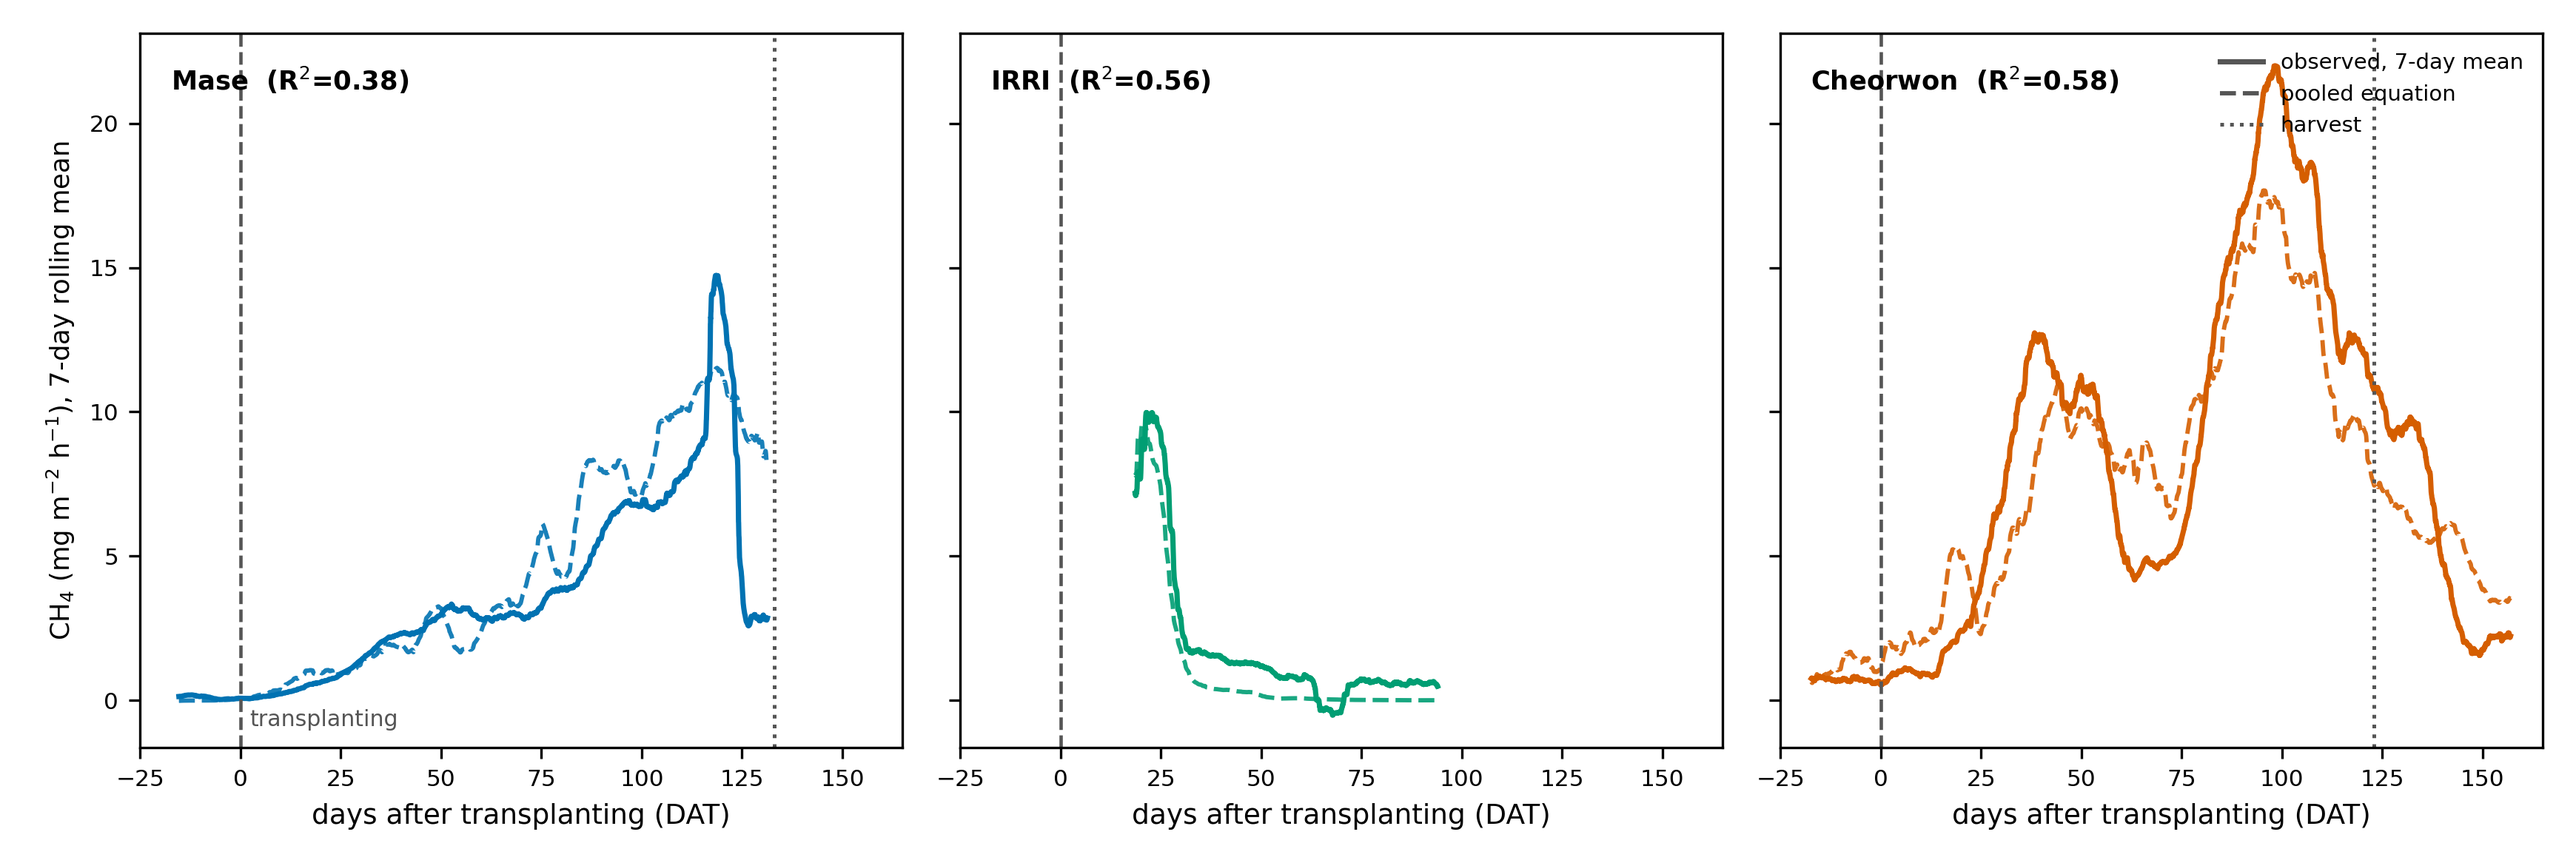
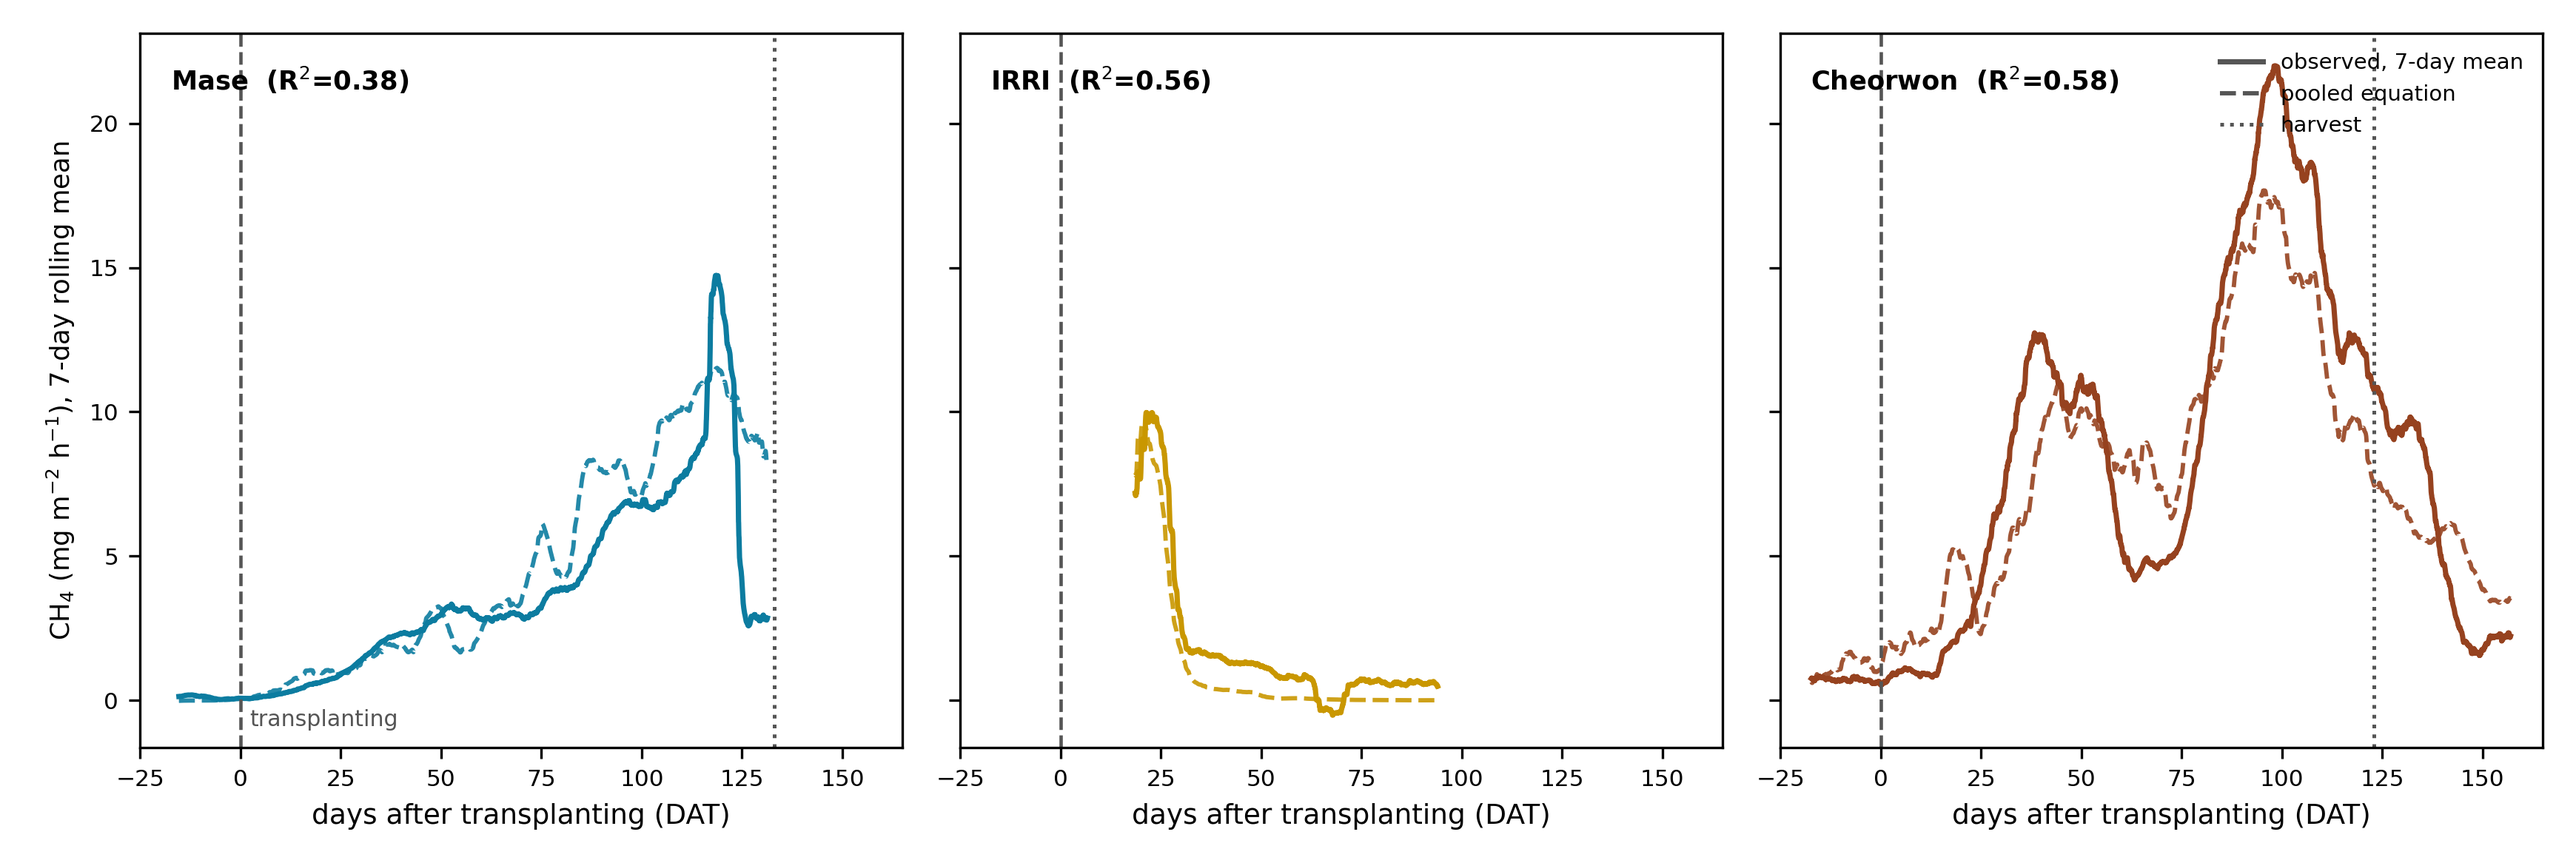
Figures: earth/WUR palette (script v1.7), regenerated from cleaned inputs

diff --git a/code/out_11_figures.py b/code/out_11_figures.py
@@ -1,6 +1,13 @@
 """
-11_figures.py (v1.1) -- the three data-dependent figures for Paper 1
+11_figures.py (v1.7) -- the three data-dependent figures for Paper 1
 ==============================================================================
+v1.7 (12 Aug 2026): earth/WUR palette replaces Okabe-Ito, validated for
+    protan/deutan/tritan separation (OKLab, all pairs, white surface).
+    KOR path is the Papale/Hampel-cleaned CSV. Regenerate ALL figures so the
+    Cheorwon panels stop showing the uncleaned record: the old Figure 4
+    annotated n=8,365 where the cleaned analysis set has 8,364 complete
+    cases (tab:sites footnote b).
+
 Regenerates, from the August 2026 runs and at the equations' PUBLISHED
 coefficients (no refitting):
 
@@ -51,9 +58,16 @@ BASE = r"C:\Users\zerru001\OneDrive - Wageningen University & Research\Paper1\RU
 PYSR_ROOT = r"C:\Users\zerru001\OneDrive - Wageningen University & Research\Paper1\RUN2\PYSR"
 OUT = r"C:\Users\zerru001\OneDrive - Wageningen University & Research\Paper1\RUN2\FIGS"
 
-# Okabe-Ito, colourblind-safe
-COLOR = {"MASE": "#0072B2", "CHEORWON": "#D55E00",
-         "IRRI": "#009E73", "POOLED": "#CC79A7"}
+# Earth/WUR palette (v1.7), colourblind-aware. Validated all-pairs in OKLab
+# against protanopia/deuteranopia/tritanopia on a white surface; arm colours
+# are never co-plotted in one panel and every panel is title-labelled, so
+# identity never rests on colour alone. POOLED wears the WUR green family:
+# the exact brand green #34B233 sits at DeltaE 3.2 from the turmeric under
+# protanopia, so the validated darker step #279027 is used instead.
+COLOR = {"MASE": "#0C7CA0",      # deep lake teal -- continuous flooding
+         "CHEORWON": "#96421F",  # terracotta    -- intermittent flooding
+         "IRRI": "#C99700",      # turmeric      -- AWD dry season
+         "POOLED": "#279027"}    # WUR green     -- the pooled equation
 GREY = "#9a9a9a"
 
 
